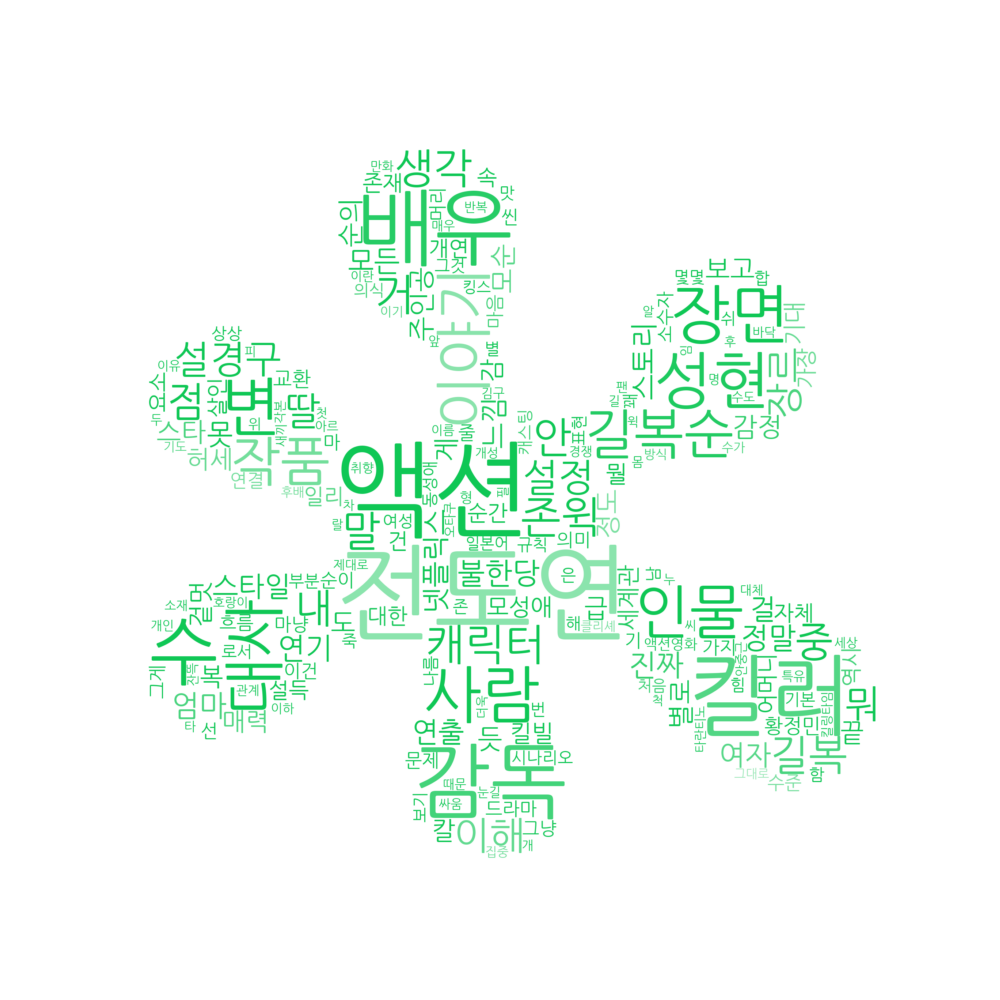
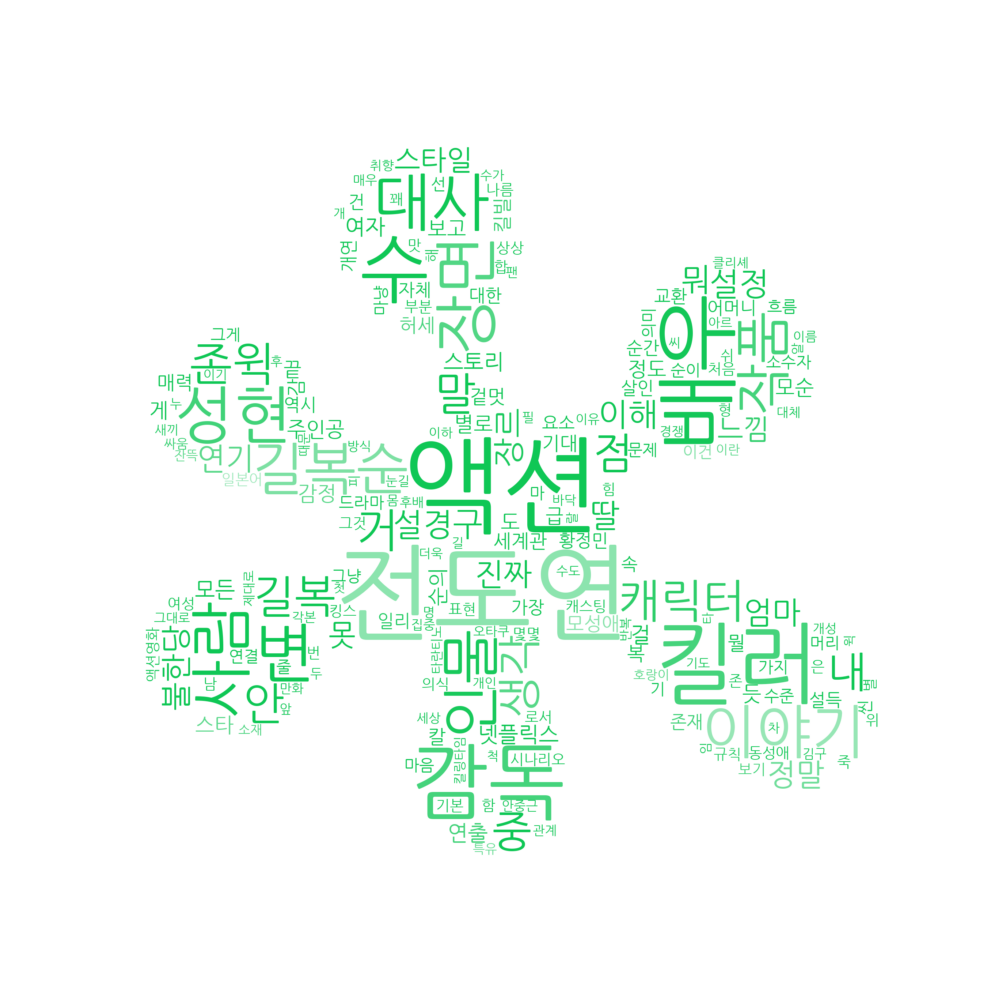
feat: connect update button, 날짜 또한 업데이트

Changed region(s): [[0.124, 0.124, 0.899, 0.868]]

diff --git a/reviewSite/templates/album/update_after.html b/reviewSite/templates/album/update_after.html
@@ -1,0 +1,12 @@
+{% extends "base/base_with_navbar.html" %}
+
+{% load static %}
+
+{% block title %}movieReviewCloud|업데이트 완료{% endblock title %}
+
+{% block content %}
+<main class="site-body">
+<h3>영화 정보 업데이트 완료! 메인 홈페이지에서 shift + F5키로 캐시 삭제 후 확인하세요</h3>
+<a class = "us-ic-button newalbum" href="{% url 'index' %}">홈으로 이동</a>
+</main>
+{% endblock content %}

diff --git a/reviewSite/templates/album/index.html b/reviewSite/templates/album/index.html
@@ -5,7 +5,7 @@
   <div class="content-list max-content-width">
     <div class="header">
       <h2>영화 목록</h2>
-      <a class="us-ic-button newalbum" href="{% url 'album-create' %}">업데이트</a>
+      <a class="us-ic-button newalbum" href="{% url 'movie_info_update' %}">업데이트</a>
     </div>
 
       <div class="contents">

diff --git a/reviewSite/album/cron.py b/reviewSite/album/cron.py
@@ -1,0 +1,178 @@
+import numpy as np
+from wordcloud import WordCloud, ImageColorGenerator
+import matplotlib.pyplot as plt
+from PIL import Image
+import pandas as pd
+from konlpy.tag import Okt # 형태소 분석기 Okt
+from collections import Counter
+import os
+import sqlite3
+
+def update_info():
+    """
+    업데이트 버튼을 누르면 실행되는 함수입니다.
+    TOP10 영화의 포스터와 이들의 리뷰에 따른 워드클라우드 이미지, 영화 제목, 현재 날짜를 교체합니다.
+    """
+
+    print(os.getcwd())
+    # 파일들의 경로
+    path = 'album/updateInfoFile/'
+
+
+    # csv 파일 불러오기
+    df = pd.read_csv(path + "reviews_total.csv")
+    df2 = pd.read_csv(path + "reviews_ranking.csv")
+    k_stopword = pd.read_csv(path + "korean_stopword.csv")
+    k_stopword = list(k_stopword['불용어'])
+    k_stopword.append('영화')
+    k_stopword.append('더')
+
+    print('here 1')
+
+    # mask로 쓸 이미지 파일 부르기
+    img1 = path + 'Rotten_Tomatoes.png'
+    img2 = path + 'Rotten_Tomatoes_rotten.png'
+    mask_p = np.array(Image.open(img1))
+    mask_n = np.array(Image.open(img2))
+
+    print('here 2')
+
+    # rate가 문자인 경우 삭제, 이상한 단어 삭제
+    df['rate'] = df['rate'].str.replace(pat=r'[ㄱ-ㅣ가-힣]+', repl= r'', regex=True)
+    df = df[df.rate != '']
+    df['review'] = df['review'].astype(str)
+    df['rate'] = df['rate'].astype(float)
+
+    # label 열 추가, rate가 3.5이상일때 label==1, 미만일때 label==0
+    df['label'] = np.select([df.rate>=3.5], [1], default=0)
+
+    # tokenizer 열 추가
+    tokenizer = Okt()
+    df['tokenized'] = df['review'].apply(tokenizer.nouns)
+
+    print('here 3')
+
+    # DB 연결
+    conn = sqlite3.connect("db.sqlite3")
+    # conn = sqlite3.connect("./../db.sqlite3")
+    cur = conn.cursor()
+
+    print('here 4')
+
+    # 영화 랭킹 순으로 긍정, 부정 워드 클라우드 만들기
+    for i in range(0,len(df2)):
+        print('--' + str(i+1) + 'here --')
+
+        df3 = df.loc[df['movie_title']==df2['title'][i]]
+        # print(df3)
+
+        # 해당 영화에 리뷰가 없을경우 continue
+        if len(df3) == 0:
+            continue
+        positive_reviews = np.hstack(df3[df3['label']==1]['tokenized'].values)
+        negative_reviews = np.hstack(df3[df3['label']==0]['tokenized'].values)
+
+        positive_count=Counter(positive_reviews)
+        negative_count=Counter(negative_reviews)
+
+        rank_text_p=dict(positive_count)
+        rank_text_n=dict(negative_count)
+
+
+        print('here 5')
+
+
+        # 불용어 제거
+        temp_dic_p={}
+
+        for key, value in rank_text_p.items():
+            if key not in k_stopword:
+                temp_dic_p[key]=value
+
+        temp_dic_n={}
+        for key, value in rank_text_n.items():
+            if key not in k_stopword:
+                temp_dic_n[key]=value
+
+        print('here 6')
+
+        wordcloud_p = WordCloud(
+            font_path = path + 'NanumGothic.ttf',
+            width = 500,
+            height = 500,
+            background_color = "white",
+            mask = mask_p
+        )
+
+        wordcloud_n = WordCloud(
+            font_path = path + 'NanumGothic.ttf',
+            width = 500,
+            height = 500,
+            background_color = "white",
+            mask = mask_n
+        )
+
+        print('here 7')
+
+        wordcloud_p = wordcloud_p.generate_from_frequencies(temp_dic_p)
+        wordcloud_n = wordcloud_n.generate_from_frequencies(temp_dic_n)
+        image_colors_p = ImageColorGenerator(mask_p)
+        image_colors_n = ImageColorGenerator(mask_n)
+
+
+        # Title 업데이트
+        title = df2['title'][i]
+        query = "UPDATE album_album SET title = '%s' WHERE id = '%s'" % (title, str(i+1))
+        cur.execute(query) # 제목 업데이트하는 쿼리 실행
+
+        query2 = "UPDATE album_album SET dt_created = datetime('now') WHERE id = '%s'" % (str(i+1))
+        cur.execute(query2) # 업데이트 날짜로 바꾸는 쿼리 실행
+
+        conn.commit() # DB에 반영
+
+        print('here 8')
+
+        # 이미지 저장할 경로
+        img_save_path = 'media/album_pics/'
+        # img_save_path = './../media/album_pics/'
+
+        #긍정리뷰 이미지 저장
+        plt.figure(figsize=(10, 10))
+        plt.imshow(wordcloud_p.recolor(color_func=image_colors_p), interpolation="bilinear")
+        plt.axis("off")
+
+        total_img_save_path = img_save_path + str(i+1) + '.png'
+
+        # 이미지 덮어쓰기가 plt에서는 지원이 안되므로 삭제했다가 저장 새로하기
+        if os.path.isfile(total_img_save_path):
+            os.remove(total_img_save_path)
+
+        plt.savefig(total_img_save_path)
+
+        #부정리뷰 이미지 저장
+        plt.figure(figsize=(10,10))
+        plt.imshow(wordcloud_n.recolor(color_func=image_colors_n), interpolation="bilinear")
+        plt.axis("off")
+
+        total_img_save_path = img_save_path + str(i+1) + '-1' + '.png'
+            
+        # 이미지 덮어쓰기가 plt에서는 지원이 안되므로 삭제했다가 저장 새로하기
+        if os.path.isfile(total_img_save_path):
+            os.remove(total_img_save_path)
+            
+        plt.savefig(total_img_save_path)
+
+        # 포스터 변경
+        poster_url = df2['img'][i]
+        os.system("curl " + poster_url + " > " + img_save_path + "%s_poster.jpg" % (str(i+1)))
+
+        print('here 9')
+
+    # for문 끝나고 DB 연결 해제
+    cur.close()
+    conn.close()
+
+    print('here 10-done')
+
+if __name__ == "__main__":
+    update_info()

diff --git a/reviewSite/reviewSite/settings.py b/reviewSite/reviewSite/settings.py
@@ -41,9 +41,9 @@ INSTALLED_APPS = [
     'django.contrib.sites',
     'common',
     'album',
-    # 여기에 추가
+    #'django_crontab',
     'widget_tweaks',
-    'allauth', # 항상 allauth보다 새로 만든 앱이 위에 와 있어야 해서, app을 새로 만들면 주석 처리한 부분에 추가해주세요.
+    'allauth', # 항상 allauth보다 새로 만든 앱이 위에 와 있어야 함
     'allauth.account',
     'allauth.socialaccount',
 ]
@@ -121,6 +121,12 @@ STATIC_URL = 'static/'
 STATICFILES_DIRS =[ BASE_DIR / 'static', ] # static 폴더 경로 지정
 
 AUTH_USER_MODEL = 'common.User' # Auth 유저 모델 지정
+
+# Crontab 적용
+#CRONJOBS = [
+#    ('*/3 * * * *', 'album.cron.update_info', '>> ' + os.path.join(BASE_DIR, 'config/log/cron.log')),
+#]
+
 
 # Default primary key field type
 # https://docs.djangoproject.com/en/4.2/ref/settings/#default-auto-field

diff --git a/reviewSite/album/views.py b/reviewSite/album/views.py
@@ -11,15 +11,23 @@ from django.views.generic import (
 )
 from album.models import Album
 from album.forms import AlbumForm
+import os
 
-# Create your views here.
+def movie_info_update(request):
+    """
+    cron.py에 있는 함수를 호출해 업데이트하고 완료 페이지를 띄웁니다.
+    """
+
+    val = "python3 album/cron.py" # cron.py를 사전에 sudo chmod 777로 바꿔주세요
+    os.system(val)
+    return render(request, 'album/update_after.html')
 
 class IndexView(ListView):
     model = Album
     template_name = 'album/index.html'
     context_object_name = 'albums'
     paginate_by = 10
-    ordering = ['-dt_created'] # 최신순으로
+    ordering = ['id'] # 아이디순으로
 
 class AlbumDetailView(DetailView):
     model = Album

diff --git a/reviewSite/album/urls.py b/reviewSite/album/urls.py
@@ -19,7 +19,9 @@ urlpatterns = [
         views.AlbumDeleteView.as_view(),
         name='album-delete',
     ),
-    #path(
-    #    
-    #),
+    path(
+        'albums/info_update/',
+        views.movie_info_update,
+        name='movie_info_update',
+    ),
 ]
